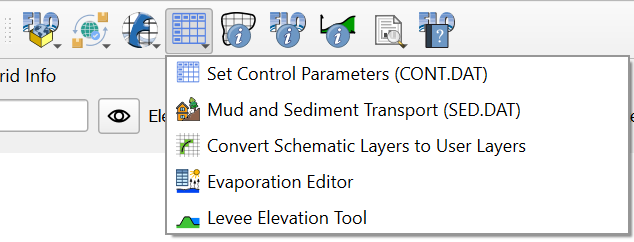
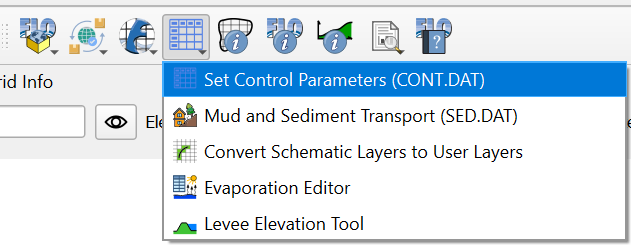
Restoring files in FLO-2D-Docs

diff --git a/source/flo-2d_plugin/user_manual/toolbar/flo-2d-parameters/index.rst b/source/flo-2d_plugin/user_manual/toolbar/flo-2d-parameters/index.rst
@@ -5,7 +5,7 @@ The FLO-2D Parameters button serves multiple functions, including setting contro
 managing Mud and Sediment data in the SED.DAT file, converting schematized data to user layers,
 and running the Levee Tool.
 
-.. image:: ../../img/Buttons/control001.png
+.. image:: ../../img/Buttons/controlparams.png
 
 .. toctree::
    :maxdepth: 1
